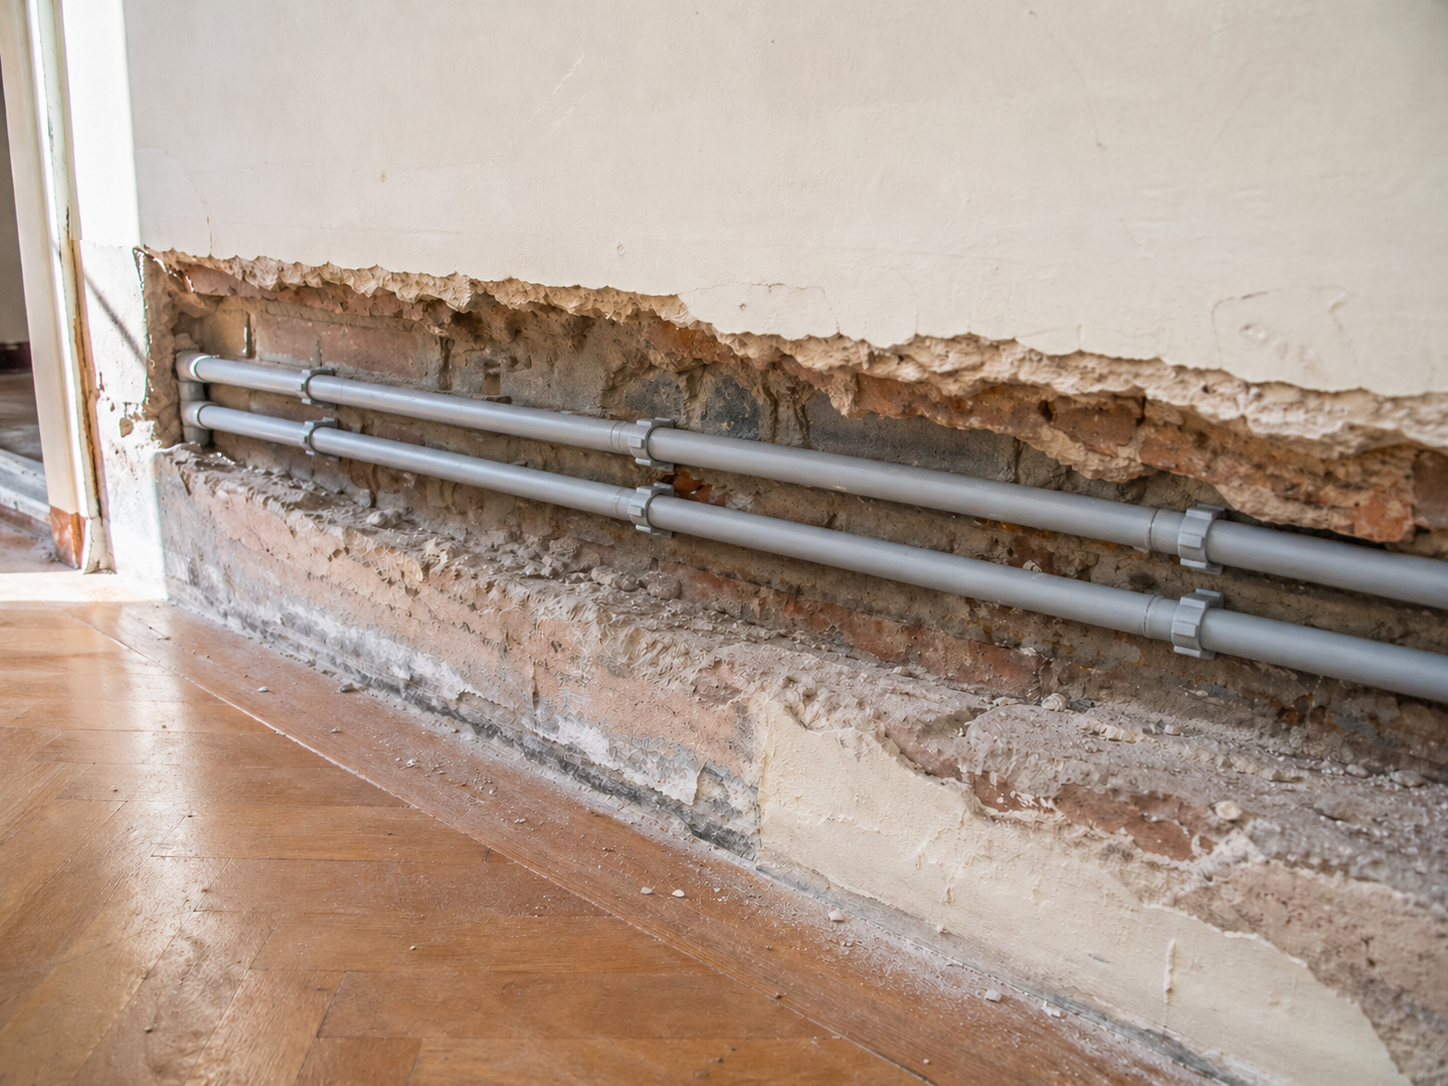
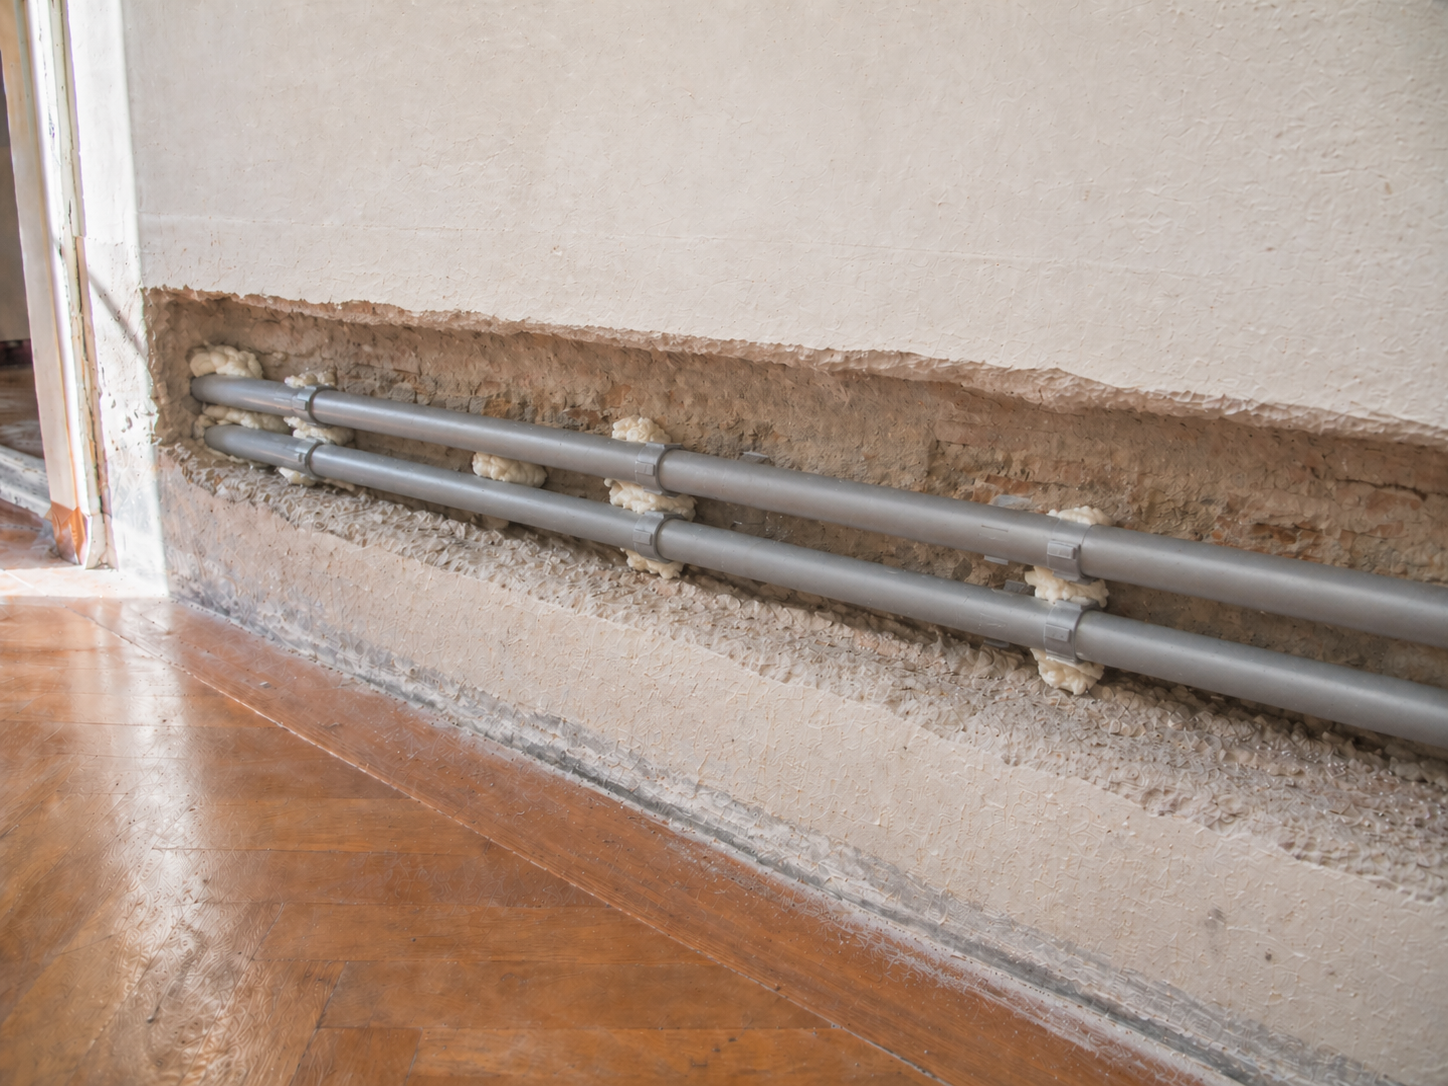
Reorder + voda copy fix + new plumbing pair
- 3-way rotation: Sauna → #5, Schodiště → #7, Koupelna → #3
- Voda caption: "Litina pryč. Nový plast, desítky let bez kapky." (was
  "bez kapek za pět let" which weirdly read as "drips coming in 5 years")
- Replace plumbing pair with new generation (better same-angle composition,
  cleaner contrast between corroded galvanized → new grey plastic)

diff --git a/index.html b/index.html
@@ -116,14 +116,14 @@
 
           <article class="compare-card">
             <div class="compare-frame">
-              <div class="compare-img compare-before" style="background-image: url(./images/compare-sauna-before.jpg)" data-fallback="sauna · studená"></div>
-              <div class="compare-img compare-after" style="background-image: url(./images/compare-sauna-after.jpg)" data-fallback="sauna · 90°C"></div>
+              <div class="compare-img compare-before" style="background-image: url(./images/compare-koupelna-before.jpg)" data-fallback="staré kachličky"></div>
+              <div class="compare-img compare-after" style="background-image: url(./images/compare-koupelna-after.jpg)" data-fallback="microcement"></div>
               <span class="compare-tag compare-tag-before">Než</span>
               <span class="compare-tag compare-tag-after">Potom</span>
             </div>
             <div class="compare-meta">
-              <h3>Sauna</h3>
-              <p>Z&nbsp;práce volat „sauna na&nbsp;90". Doma už vyhřátá.</p>
+              <h3>Koupelna</h3>
+              <p>Staré kachličky pryč. Microcement, nový obklad, podlahovka pod&nbsp;tím.</p>
             </div>
           </article>
 
@@ -136,20 +136,20 @@
             </div>
             <div class="compare-meta">
               <h3>Voda v&nbsp;zdi</h3>
-              <p>Litina pryč. Plast s&nbsp;životností přes desítky let, bez kapek za&nbsp;pět let.</p>
+              <p>Litina pryč. Nový plast, desítky let bez kapky.</p>
             </div>
           </article>
 
           <article class="compare-card">
             <div class="compare-frame">
-              <div class="compare-img compare-before" style="background-image: url(./images/compare-schody-before.jpg)" data-fallback="schody · tma"></div>
-              <div class="compare-img compare-after" style="background-image: url(./images/compare-schody-after.jpg)" data-fallback="schody · led"></div>
+              <div class="compare-img compare-before" style="background-image: url(./images/compare-sauna-before.jpg)" data-fallback="sauna · studená"></div>
+              <div class="compare-img compare-after" style="background-image: url(./images/compare-sauna-after.jpg)" data-fallback="sauna · 90°C"></div>
               <span class="compare-tag compare-tag-before">Než</span>
               <span class="compare-tag compare-tag-after">Potom</span>
             </div>
             <div class="compare-meta">
-              <h3>Schodiště</h3>
-              <p>LED v&nbsp;každém schodu. Žádné slepé tápání.</p>
+              <h3>Sauna</h3>
+              <p>Z&nbsp;práce volat „sauna na&nbsp;90". Doma už vyhřátá.</p>
             </div>
           </article>
 
@@ -168,14 +168,14 @@
 
           <article class="compare-card">
             <div class="compare-frame">
-              <div class="compare-img compare-before" style="background-image: url(./images/compare-koupelna-before.jpg)" data-fallback="staré kachličky"></div>
-              <div class="compare-img compare-after" style="background-image: url(./images/compare-koupelna-after.jpg)" data-fallback="microcement"></div>
+              <div class="compare-img compare-before" style="background-image: url(./images/compare-schody-before.jpg)" data-fallback="schody · tma"></div>
+              <div class="compare-img compare-after" style="background-image: url(./images/compare-schody-after.jpg)" data-fallback="schody · led"></div>
               <span class="compare-tag compare-tag-before">Než</span>
               <span class="compare-tag compare-tag-after">Potom</span>
             </div>
             <div class="compare-meta">
-              <h3>Koupelna</h3>
-              <p>Staré kachličky pryč. Microcement, nový obklad, podlahovka pod&nbsp;tím.</p>
+              <h3>Schodiště</h3>
+              <p>LED v&nbsp;každém schodu. Žádné slepé tápání.</p>
             </div>
           </article>
 
